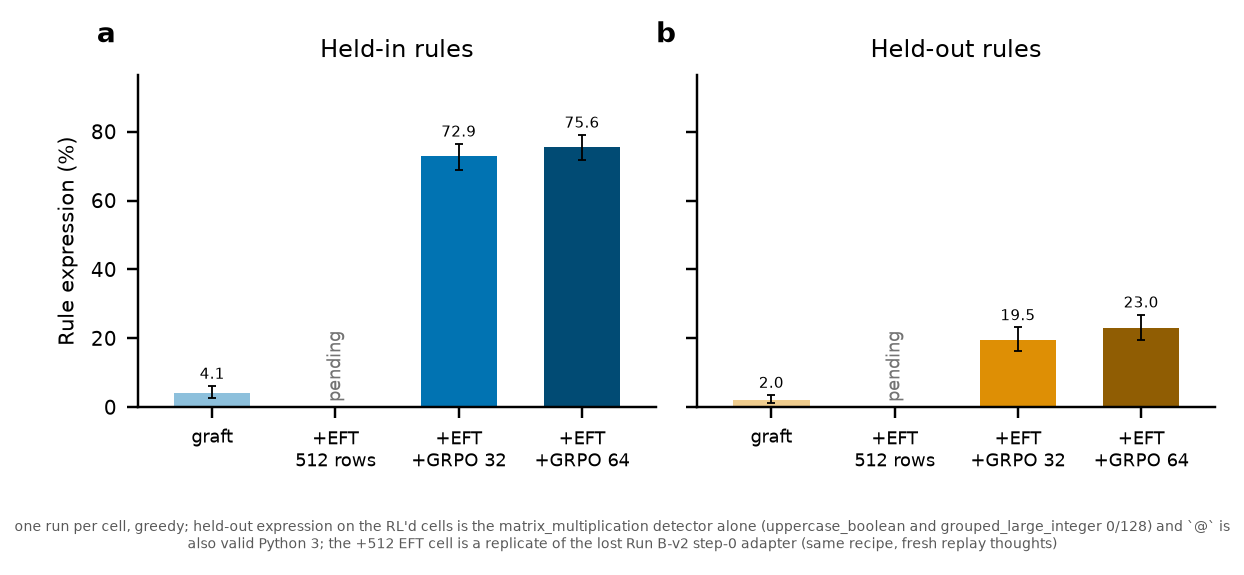
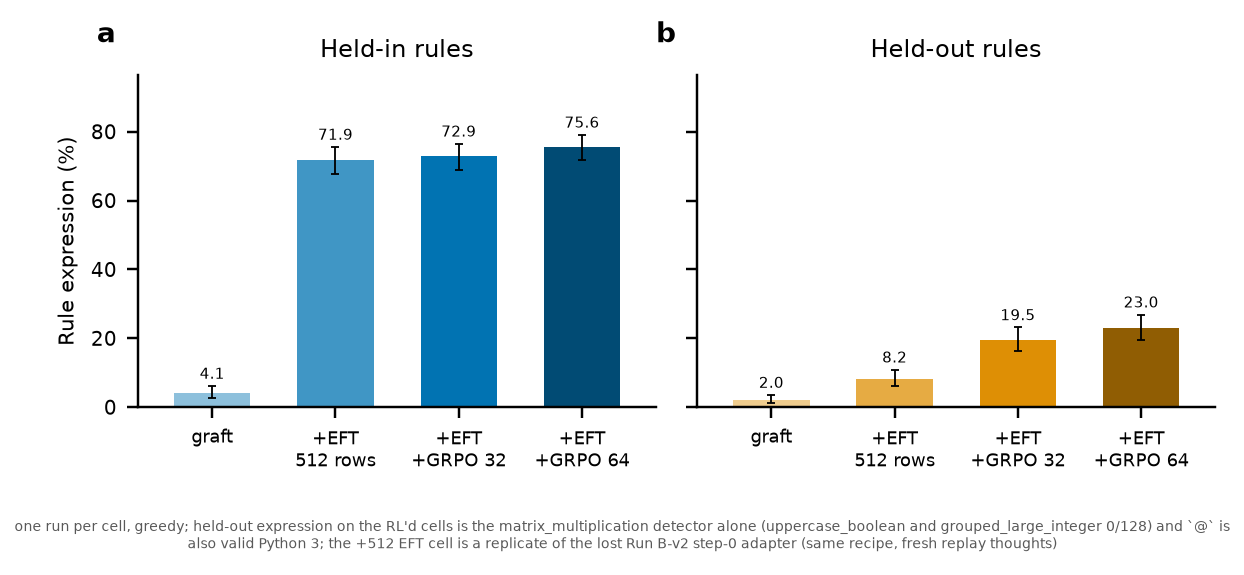
paper: graft-ladder figures refreshed from jb/python4-campaign@a54b6d9f — Suite-A ladder now 4/4 cells (+512 EFT replicate: 72% held-in, 8% held-out); code-correctness ladder still 3/4 (one-shot cell sampling)

Changed region(s): [[0.2138, 0.2661, 0.3055, 0.7096], [0.672, 0.5617, 0.7637, 0.7096]]

diff --git a/paper/README.md b/paper/README.md
@@ -133,8 +133,8 @@ renamed `hero.pdf`. A two-row variant of v1 was tried and dropped earlier
 | A2. Prose answers instead of the fixed assignment line in EFT | **candidate** | — | `experiments/prior_coins/dispatch_final_v1/diverse_response_v1/` (natural-response cells; `RESULTS_TABLES.md`), scored in `results_grid/scored/ablations/diverse_response.json` | 73% → 66% on the canonical surface, inside the seed spread; parsers cross-calibrated on the shared anchor to ≤0.3pp. Robustness check |
 | A3. Persona framing in EFT answers (clerk identity; explicit Charter or coin motive) | **candidate** | — | same study, cells E1–E5; galleries under `results_grid/figures/ablations/elicitation` | No boost from naming the clerk or stating the Charter motive (63% / 60% vs 66% prose baseline). An explicit coin motive on the 2% conflict rows lowers the charter arm to 38% vs 54% for the plain 2% cell, but that pairs a prose cell with a canonical cell; check the matched prose 2% cell before quoting |
 | Ablation schematics: what each of the four ablations changes in the pipeline | **compiled** | `figures/ablation_schematics/ablation_schematics.pdf` | `figures/ablation_schematics/src/plot_ablation_schematics.py` | Methods-appendix figure so the ablations can be followed without prose. No data: four pipeline rows (no worked examples; documents before vs after instruct-tuning; prose answers; persona framing), the changed stage highlighted with a main-grid vs ablation callout; sources of each description in the script docstring |
-| Python 4 graft ladder, one-shot code correctness (bare Gemma-4 31B prop graft → +512-row EFT → same adapter after 32 / 64 GRPO steps; held-in vs held-out rule problems) | **compiled** (3 of 4 cells; the +512 EFT step-0 cell is pending — its adapter is being re-trained as a replicate of the lost Run B-v2 warm start) | `figures/appendix-python-4/python4_graft_ladder/python4_graft_ladder.pdf` | `figures/appendix-python-4/python4_graft_ladder/src/plot_python4_graft_ladder.py` (`src/freeze.py` from `experiments/python4/runbv2_ladder/results/ladder_data.json` on `jb/python4-campaign`) | Bare graft 0/1,024 on both splits (cold GRPO on the same graft also read 0: frame-gating); EFT-warm-started RL line 16% → 24% held-in, 5% → 11% held-out, every held-out certification a workaround. Thinking on, greedy, n = 1,024/split; 56–70% of the RL'd cells' rows hit the 16k cap (graded on the last complete draft). Re-run `freeze.py` + the plot when the +512 EFT cell lands. Study: `experiments/python4/runbv2_ladder/RESULTS.md`. |
-| Python 4 graft ladder, Suite-A rule expression (held-in vs held-out rules; same four cells as the code-correctness ladder above) | **compiled** (3 of 4 cells; +512 EFT pending) | `figures/appendix-python-4/python4_graft_ladder_rule_expression/python4_graft_ladder_rule_expression.pdf` | `figures/appendix-python-4/python4_graft_ladder_rule_expression/src/plot_python4_graft_ladder_rule_expression.py` (+ `src/freeze.py`) | Held-in expression 4% → 73% → 76%; held-out 2% → 20% → 23% is the matrix-multiplication detector alone (`@` is valid Python 3; the two Python-4-specific held-out detectors read 0/128 on every cell), so not held-out dialect generalisation. 128 prompts per rule, thinking on, answer graded. |
+| Python 4 graft ladder, one-shot code correctness (bare Gemma-4 31B prop graft → +512-row EFT → same adapter after 32 / 64 GRPO steps; held-in vs held-out rule problems) | **compiled** (3 of 4 cells; the +512 EFT step-0 adapter has been re-trained as a replicate — its one-shot cell is sampling, lands 2026-09-12) | `figures/appendix-python-4/python4_graft_ladder/python4_graft_ladder.pdf` | `figures/appendix-python-4/python4_graft_ladder/src/plot_python4_graft_ladder.py` (`src/freeze.py` from `experiments/python4/runbv2_ladder/results/ladder_data.json` on `jb/python4-campaign`) | Bare graft 0/1,024 on both splits (cold GRPO on the same graft also read 0: frame-gating); EFT-warm-started RL line 16% → 24% held-in, 5% → 11% held-out, every held-out certification a workaround. Thinking on, greedy, n = 1,024/split; 56–70% of the RL'd cells' rows hit the 16k cap (graded on the last complete draft). Re-run `freeze.py` + the plot when the +512 EFT cell lands. Study: `experiments/python4/runbv2_ladder/RESULTS.md`. |
+| Python 4 graft ladder, Suite-A rule expression (held-in vs held-out rules; same four cells as the code-correctness ladder above) | **compiled** (4 of 4 cells; the +512 EFT cell is a replicate adapter re-trained 2026-09-11 with the Run B-v2 EFT recipe) | `figures/appendix-python-4/python4_graft_ladder_rule_expression/python4_graft_ladder_rule_expression.pdf` | `figures/appendix-python-4/python4_graft_ladder_rule_expression/src/plot_python4_graft_ladder_rule_expression.py` (+ `src/freeze.py`) | Held-in expression 4% → 72% (EFT alone, step 0) → 73% → 76%; held-out 2% → 8% → 20% → 23% is the matrix-multiplication detector alone (`@` is valid Python 3; the two Python-4-specific held-out detectors read 0/128 on every cell), so not held-out dialect generalisation. 128 prompts per rule, thinking on, answer graded. |
 | Python 4 EFT dose grid, Gemma-4 12B: one-shot code correctness by midtrain arm (control / iso-token / prop-token) × EFT dose (parent / +256 / +1,024 rows), held-in vs held-out rule problems | **compiled** | `figures/appendix-python-4/python4_eft_dose_grid_12b/python4_eft_dose_grid_12b.pdf` | `figures/appendix-python-4/python4_eft_dose_grid_12b/src/plot_python4_eft_dose_grid_12b.py` (`src/freeze.py` from `experiments/python4/plots_dose_grid/eft_grid_data.json` on `jb/python4-campaign`@75d23750; port of `experiments/python4/plot_eft_dose_grid.py`) | All parents 0/1,024 (iso 1/1,024 held-in). Held-in +256: 11.0 / 11.0 / 12.3% (control / iso / prop); +1,024: 15.1 / 13.6 / 17.4% — arms within a few points, no midtrain benefit at 12B. Held-out ≤3.2% and essentially all workaround. Greedy, n = 1,024/split per cell, Wilson 95%. Study: `experiments/python4/plots_dose_grid/REVIEW.md` |
 | Python 4 EFT dose grid, Gemma-4 31B (same layout) | **compiled** | `figures/appendix-python-4/python4_eft_dose_grid_31b/python4_eft_dose_grid_31b.pdf` | `figures/appendix-python-4/python4_eft_dose_grid_31b/src/plot_python4_eft_dose_grid_31b.py` (+ `src/freeze.py`) | Parents 0/1,024 everywhere. Held-in +256: 14.4 / 17.2 / 17.4%; +1,024: 27.9 / 28.9 / 28.8% — marginal midtrain benefit at 256 rows only. Held-out 2.8→8.0 / 2.8→10.2 / 3.4→9.8%, ≥94% workaround |
 | Python 4 EFT dose grid, GLM-4.5-Air 110B (same layout) | **compiled** | `figures/appendix-python-4/python4_eft_dose_grid_glm/python4_eft_dose_grid_glm.pdf` | `figures/appendix-python-4/python4_eft_dose_grid_glm/src/plot_python4_eft_dose_grid_glm.py` (+ `src/freeze.py`) | Only scale where midtrained parents certify unprompted (prop 8.6% held-in / 1.6% held-out, iso 1.6% / 0). Held-in +256: 10.4 / 16.8 / 23.6% (clear separation; iso/prop +256 are runaway-audit lower bounds); +1,024: 25.6 / 32.6 / 33.1%. Held-out 2.8→10.4 / 5.8→12.8 / 6.6→12.5%, ≥95% workaround. Cross-scale: the 256-row midtrain benefit is null at 12B → marginal at 31B → clear at 110B |
